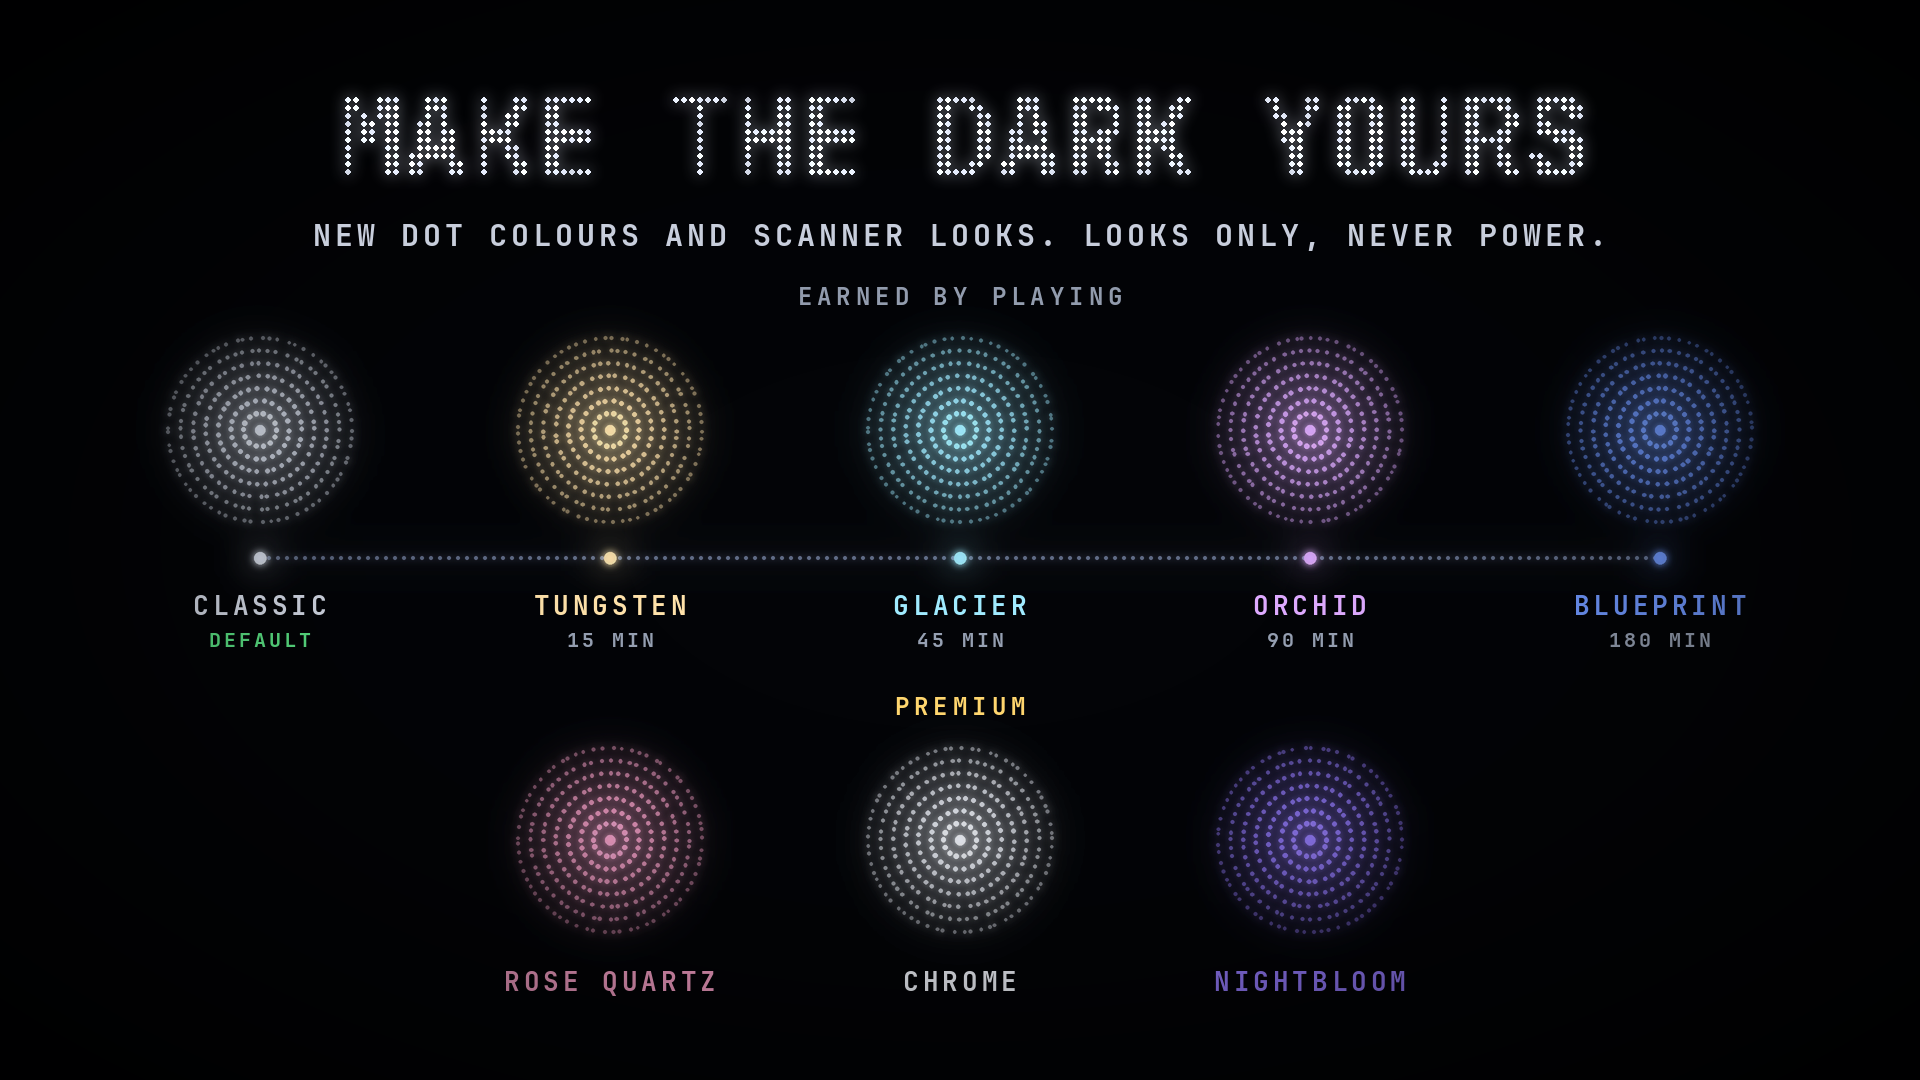
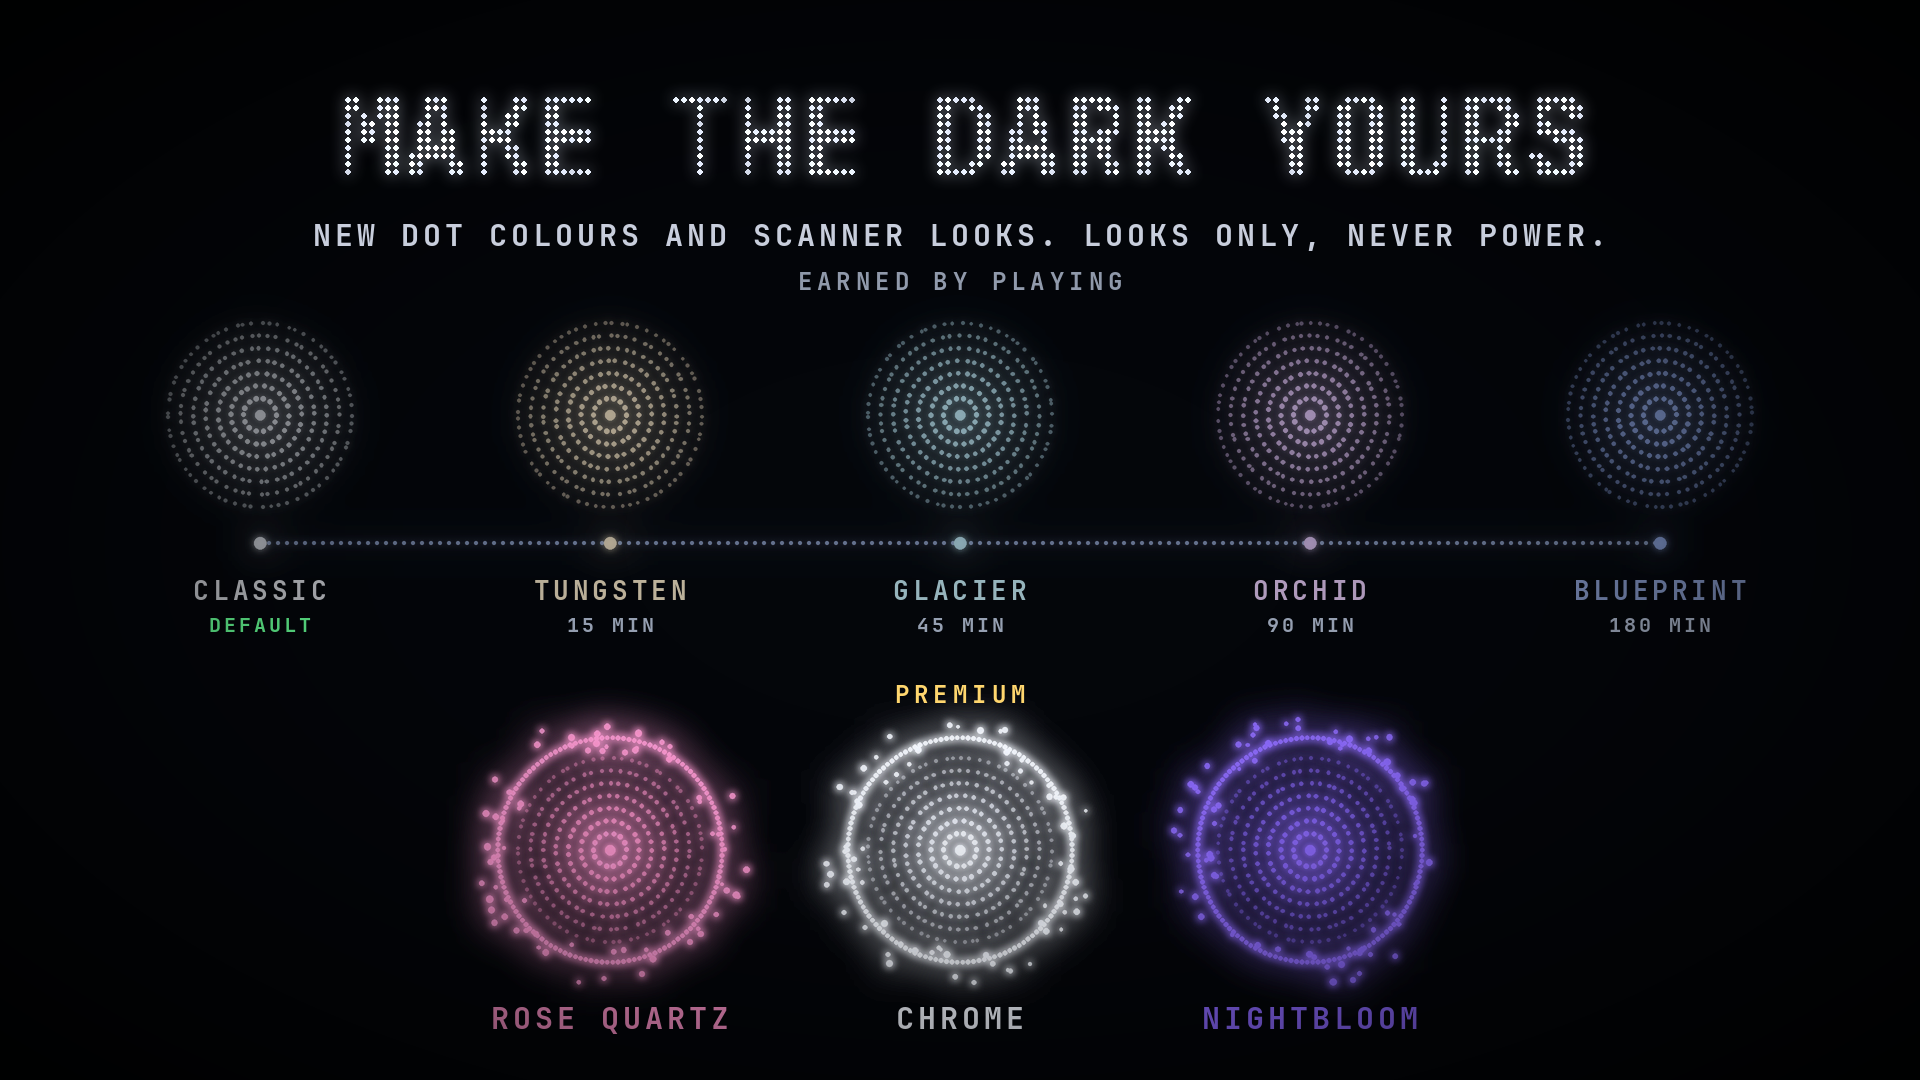
Store art: muted standard skins, vivid premium skins with halos (provisional colours)
Claude-Session: https://claude.ai/code/session_01Dp596FrZFCNP7zMyTj1EPk

Changed region(s): [[0.0938, 0.3056, 0.9062, 0.9472], [0.4062, 0.2444, 0.5938, 0.275]]

diff --git a/scripts/art/store_art.py b/scripts/art/store_art.py
@@ -745,7 +745,8 @@ def lore(path):
 
 # The scanner skins in src/shared/data/Skins.luau on claude/skins-monetization (PR #15): a plain
 # Classic, four earned by playtime (minutes in the dark), three bought with Robux. Colours are
-# each skin's `wall` colour. Keep in step with that file.
+# each skin's `wall` colour. Keep in step with that file. The earned skins are drawn muted on
+# purpose (quiet, a little greyed) so the premium ones, drawn vivid with a halo, stand out.
 LOOKS_EARNED = [
     ("CLASSIC", (226, 232, 245), "DEFAULT"),
     ("TUNGSTEN", (255, 226, 170), "15 MIN"),
@@ -760,8 +761,21 @@ LOOKS_ROBUX = [
 ]
 
 
-def burst_items(cx, cy, color, rng, radius=118):
-    """A scan burst: rings of dots with a bright core, in a dot colour."""
+def muted(color, amount=0.55, dim=0.62):
+    """Pulls a colour towards grey and darkens it: the standard looks stay quiet."""
+    grey = sum(color) / 3.0
+    return tuple(int((grey + (c - grey) * amount) * dim) for c in color)
+
+
+def vivid(color, boost=1.35):
+    """Pushes a colour away from grey to full strength: the premium looks pop."""
+    grey = sum(color) / 3.0
+    return tuple(int(np.clip(grey + (c - grey) * boost, 0, 255)) for c in color)
+
+
+def burst_items(cx, cy, color, rng, radius=118, sparkle=0):
+    """A scan burst: rings of dots with a bright core, in a dot colour. `sparkle` adds a
+    scatter of large bright dots and an outer halo ring for premium looks."""
     items = []
     for ring, r in enumerate(np.linspace(radius * 0.18, radius, 7)):
         n = int(14 + ring * 11 * radius / 118)
@@ -770,6 +784,14 @@ def burst_items(cx, cy, color, rng, radius=118):
             fade = 1.0 - ring / 9.0
             items.append((cx + np.cos(ang) * r, cy + np.sin(ang) * r, max(2.4 - ring * 0.12, 1.2), tuple(c * fade for c in color)))
     items.append((cx, cy, 5, color))
+    if sparkle:
+        for k in range(70):
+            ang = rng.uniform(0, 2 * np.pi)
+            r = radius * rng.uniform(1.05, 1.5)
+            items.append((cx + np.cos(ang) * r, cy + np.sin(ang) * r, rng.uniform(1.6, 3.4), color))
+        for k in range(130):
+            ang = (k / 130) * 2 * np.pi
+            items.append((cx + np.cos(ang) * radius * 1.22, cy + np.sin(ang) * radius * 1.22, 2.2, color))
     return items
 
 
@@ -780,25 +802,29 @@ def looks(path):
     base = Image.new("RGB", size, (2, 3, 5))
     rng = np.random.default_rng(9)
     items = []
-    row1_y, row2_y = 430, 840
+    row1_y, row2_y = 415, 850
     xs1 = [260 + i * 350 for i in range(5)]
     xs2 = [610 + i * 350 for i in range(3)]
     # a progress line through the earned row, with a bright head at the last unlock
     for x in np.arange(xs1[0], xs1[-1], 9):
         items.append((x, row1_y + 128, 1.6, (70, 78, 96)))
     for (name, color, tag), x in zip(LOOKS_EARNED, xs1):
-        items += burst_items(x, row1_y, color, rng, 92)
-        items.append((x, row1_y + 128, 6, color))
+        quiet = muted(color)
+        items += burst_items(x, row1_y, quiet, rng, 92)
+        items.append((x, row1_y + 128, 6, quiet))
+    premium = []
     for (name, color), x in zip(LOOKS_ROBUX, xs2):
-        items += burst_items(x, row2_y, color, rng, 92)
-    img = glow_compose(base, soft_dot_layer(size, items))
+        premium += burst_items(x, row2_y, vivid(color), rng, 92, sparkle=1)
+    # standard looks glow softly; premium looks get a stronger glow of their own
+    img = glow_compose(base, soft_dot_layer(size, items), 0.55)
+    img = glow_compose(img, soft_dot_layer(size, premium), 1.9)
     plain_text(img, "EARNED BY PLAYING", (960, row1_y - 150), 24, (150, 160, 178), anchor="ma", bold=True, spacing=5)
-    plain_text(img, "PREMIUM", (960, row2_y - 150), 24, (255, 214, 110), anchor="ma", bold=True, spacing=5)
+    plain_text(img, "PREMIUM", (960, row2_y - 172), 24, (255, 214, 110), anchor="ma", bold=True, spacing=5)
     for (name, color, tag), x in zip(LOOKS_EARNED, xs1):
-        plain_text(img, name, (x, row1_y + 158), 26, color, anchor="ma", bold=True, spacing=4)
+        plain_text(img, name, (x, row1_y + 158), 26, muted(color, 0.5, 0.8), anchor="ma", bold=True, spacing=4)
         plain_text(img, tag, (x, row1_y + 196), 20, (150, 160, 178) if tag != "DEFAULT" else (96, 240, 140), anchor="ma", bold=True, spacing=3)
     for (name, color), x in zip(LOOKS_ROBUX, xs2):
-        plain_text(img, name, (x, row2_y + 124), 26, color, anchor="ma", bold=True, spacing=4)
+        plain_text(img, name, (x, row2_y + 148), 30, vivid(color), anchor="ma", bold=True, spacing=4)
     img = vignette(img, 0.8)
     img = dot_text(img, "MAKE THE DARK YOURS", (960, 60), 110, pitch=8, anchor="ma")
     plain_text(img, "NEW DOT COLOURS AND SCANNER LOOKS. LOOKS ONLY, NEVER POWER.", (960, 215), 30, (200, 206, 220), anchor="ma", bold=True, spacing=4)
